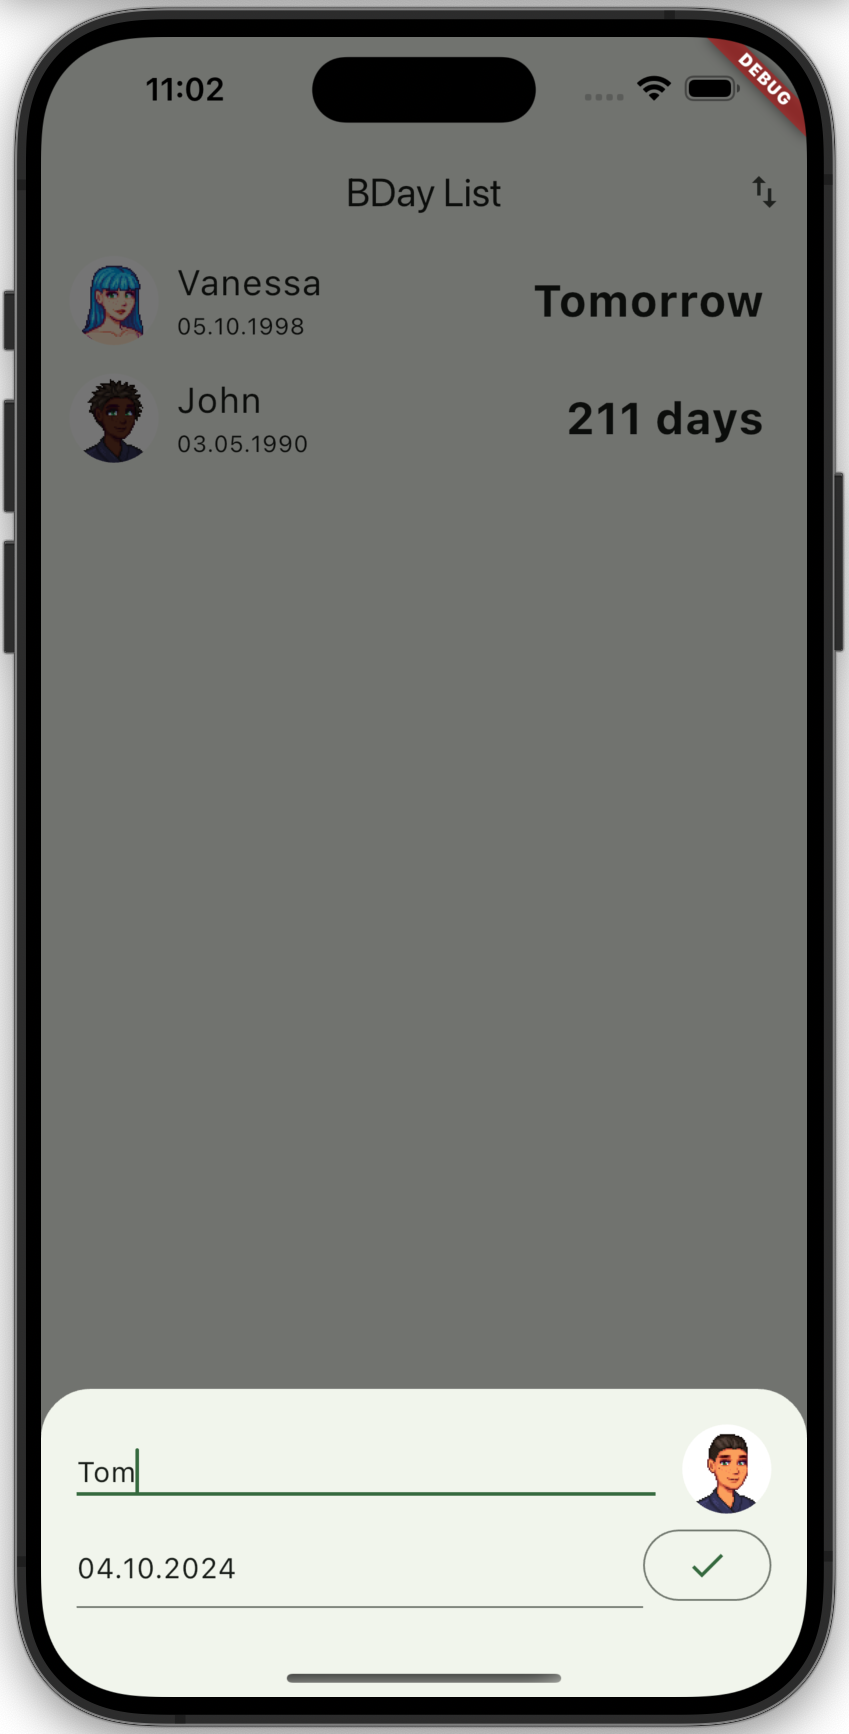
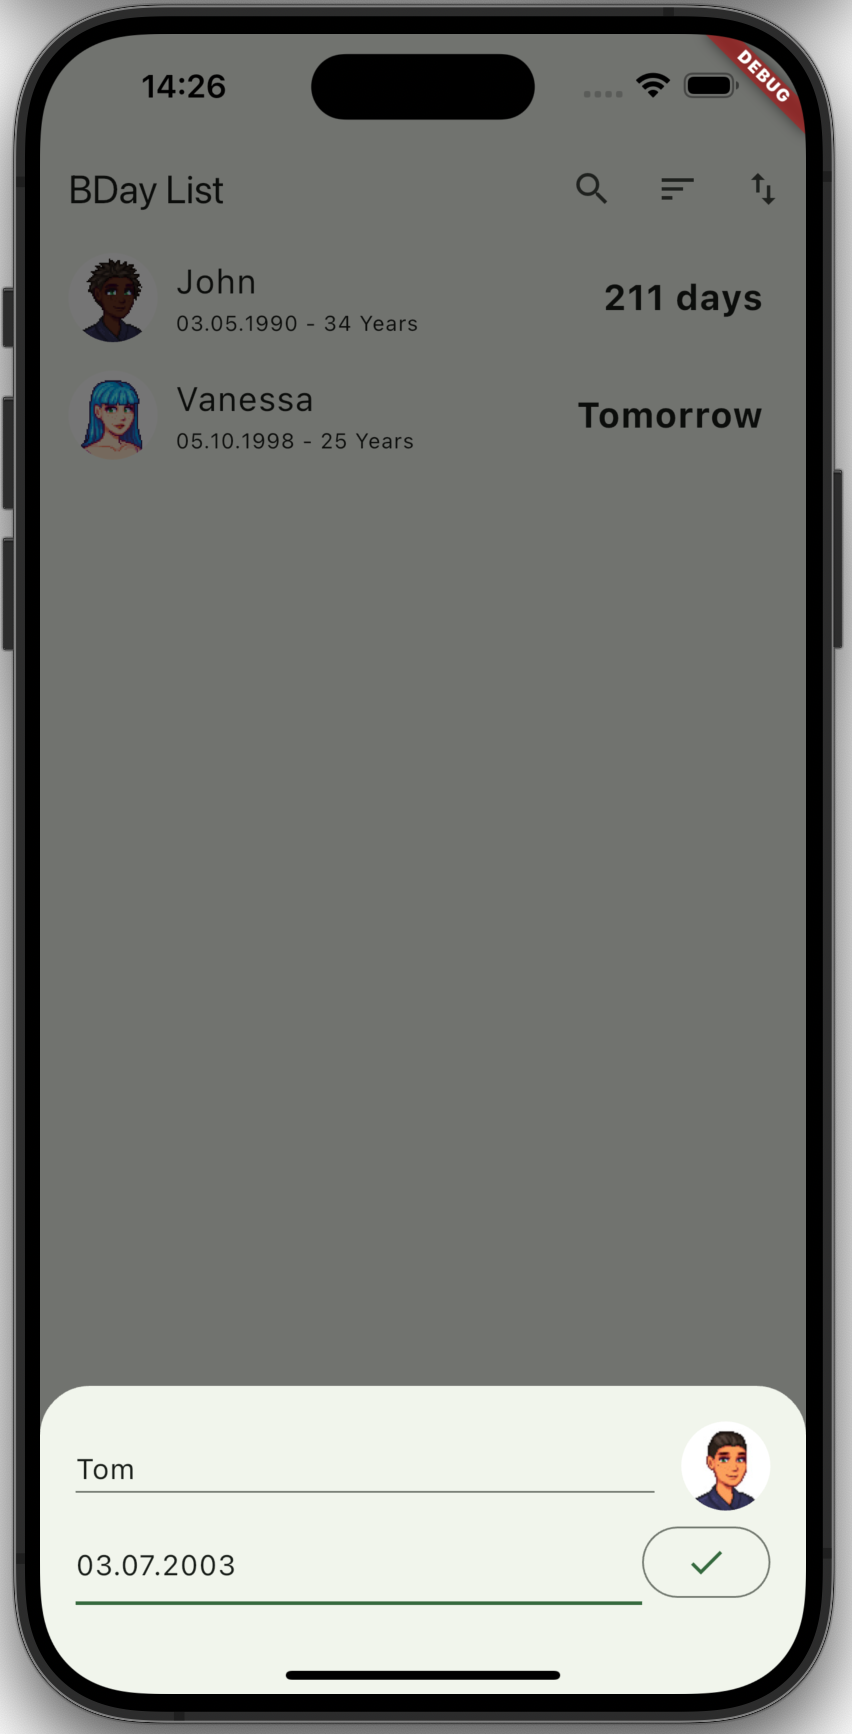
docs: update doc with new UI and features

diff --git a/README.md b/README.md
@@ -13,26 +13,31 @@ This App is aimed to help people to remember birthdays.
 | macOS    | ❌        |
 | Linux    | ❌        |
 
+## Features
+
 <table style="width: 100%; table-layout: fixed;">
   <tr>
-    <th style="width: 20%;">Home (iOS)</th>
-    <th style="width: 20%;">Home (Android)</th>
-    <th style="width: 20%;">Add</th>
-    <th style="width: 20%;">Edit</th>
-    <th style="width: 20%;">Import/Export</th>
+    <th style="width: 15%;">Home</th>
+    <th style="width: 15%;">Add</th>
+    <th style="width: 15%;">Edit</th>
+    <th style="width: 15%;">Search</th>
+    <th style="width: 15%;">Sort</th>
+    <th style="width: 15%;">Import/Export</th>
   </tr>
   <tr>
-    <td style="width: 20%;"><img src="media/home_ios.png" width="100%"></td>
-    <td style="width: 20%;"><img src="media/home_android.png" width="100%"></td>
-    <td style="width: 20%;"><img src="media/add.png" width="100%"></td>
-    <td style="width: 20%;"><img src="media/edit_remove.png" width="100%"></td>
-    <td style="width: 20%;"><img src="media/import_export.png" width="100%"></td>
+    <td style="width: 15%;"><img src="media/home.png" width="100%"></td>
+    <td style="width: 15%;"><img src="media/add.png" width="100%"></td>
+    <td style="width: 15%;"><img src="media/edit_remove.png" width="100%"></td>
+    <td style="width: 15%;"><img src="media/search.png" width="100%"></td>
+    <td style="width: 15%;"><img src="media/sort.png" width="100%"></td>
+    <td style="width: 15%;"><img src="media/import_export.png" width="100%"></td>
   </tr>
   <tr>
-    <td style="width: 20%;">iOS</td>
-    <td style="width: 20%;">Android</td>
-    <td style="width: 20%;">Add new entries.</td>
-    <td style="width: 20%;">Edit or remove by long press.</td>
-    <td style="width: 20%;">Import or export the list.<br>Click on the arrows in the top-right corner.</td>
+    <td style="width: 15%;">Shows added birthdays.</td>
+    <td style="width: 15%;">Add entry.</td>
+    <td style="width: 15%;">Edit or remove entries.</td>
+    <td style="width: 15%;">Search by name.</td>
+    <td style="width: 15%;">Sort list by attributes.</td>
+    <td style="width: 15%;">Export and import your list.</td>
   </tr>
 </table>
